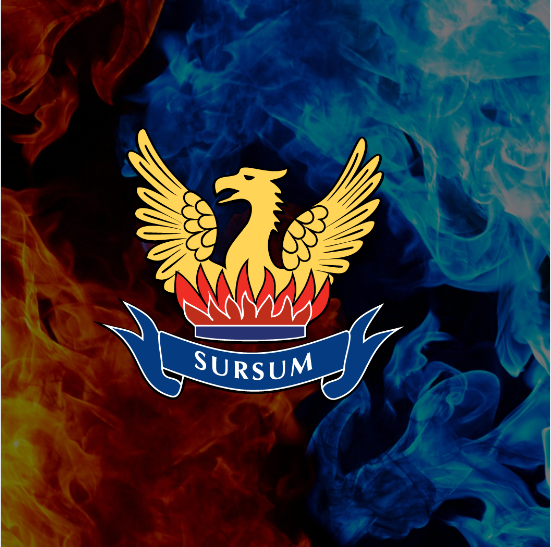
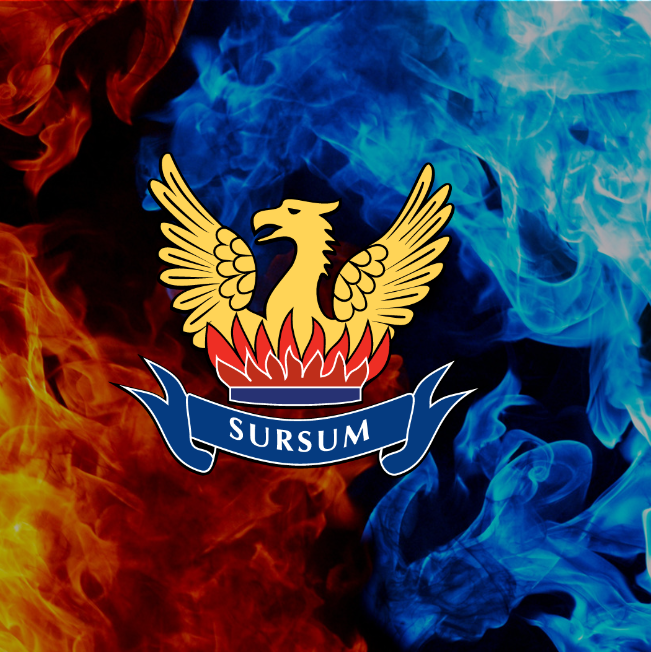
Lost page added

diff --git a/main.py b/main.py
@@ -22,11 +22,11 @@ class Home:
         self.b2.place(x=220,y=539)
 
         self.img_file2 = Image.open("found.png")
-        self.img_file2 = self.img_file2.resize((160,74))
+        self.img_file2 = self.img_file2.resize((170,74))
         self.img_file2 = ImageTk.PhotoImage(self.img_file2)
 
         self.b3 = Button(parent,image=self.img_file2, border = 0, highlightthickness=0)
-        self.b3.place(x=440,y=255)
+        self.b3.place(x=430,y=255)
       
     def exit(self):
       window.destroy()
@@ -46,6 +46,12 @@ class Lost:
         bg_image2 = ImageTk.PhotoImage(bg_image2) 
         image_label.configure(image = bg_image2) 
         image_label.image=bg_image2
+
+        self.img_file2 = Image.open("found.png")
+        self.img_file2 = self.img_file2.resize((170,74))
+        self.img_file2 = ImageTk.PhotoImage(self.img_file2)
+
+
        
       
 if __name__== "__main__": 
